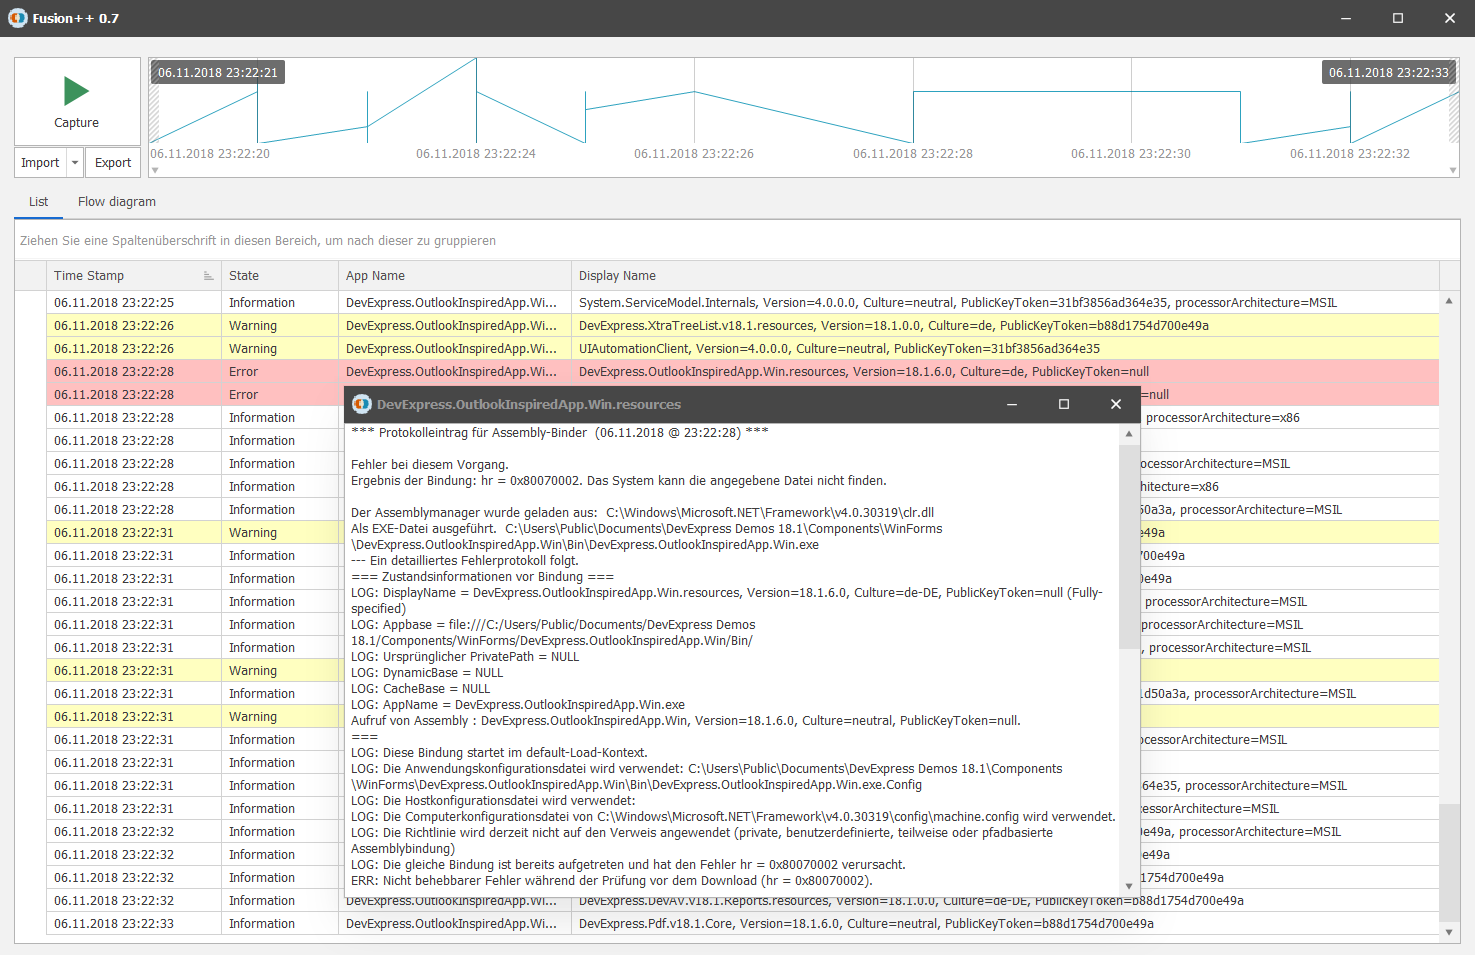
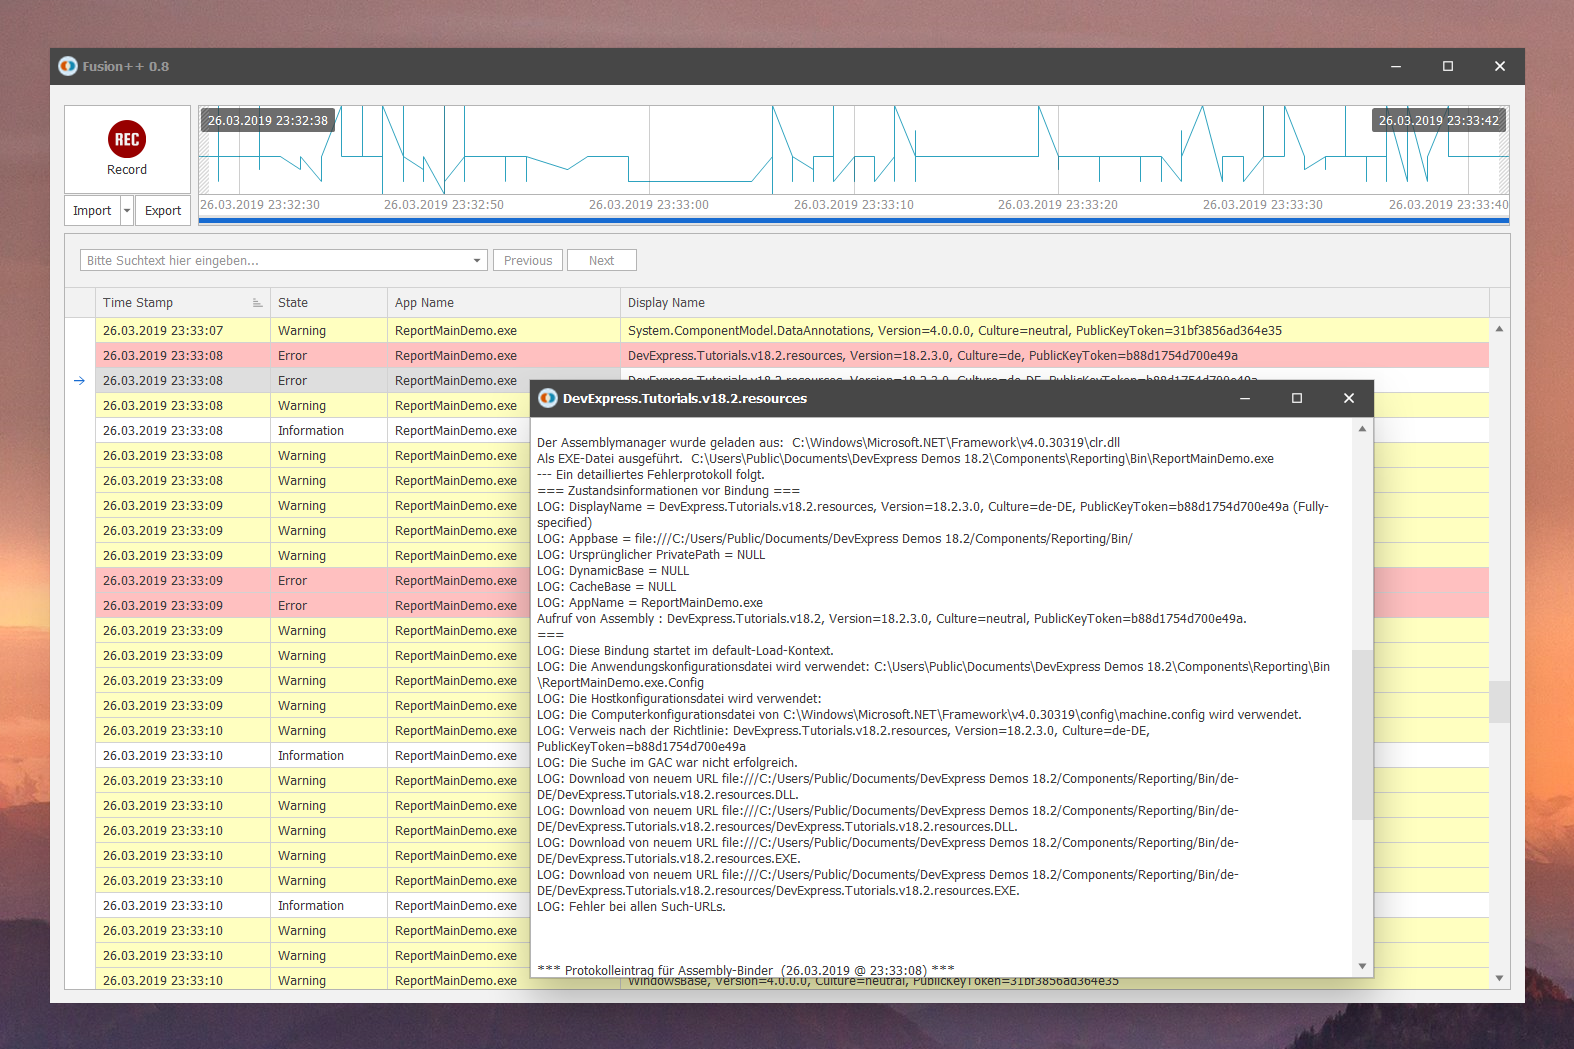
Make the main grid searchable

diff --git a/Fusion++/MainForm.Designer.cs b/Fusion++/MainForm.Designer.cs
@@ -138,8 +138,13 @@
             this.viewLog.FormatRules.Add(gridFormatRule2);
             this.viewLog.GridControl = this.gridLog;
             this.viewLog.Name = "viewLog";
+			this.viewLog.OptionsView.ShowGroupPanel = false;
             this.viewLog.OptionsBehavior.Editable = false;
-            this.viewLog.OptionsBehavior.ReadOnly = true;
+			this.viewLog.OptionsBehavior.AllowIncrementalSearch = true;
+			this.viewLog.OptionsFind.AllowFindPanel = true;
+			this.viewLog.OptionsFind.AlwaysVisible = true;
+			this.viewLog.OptionsFind.Behavior = DevExpress.XtraEditors.FindPanelBehavior.Search;
+			this.viewLog.OptionsBehavior.ReadOnly = true;
             this.viewLog.OptionsDetail.EnableMasterViewMode = false;
             this.viewLog.OptionsMenu.ShowConditionalFormattingItem = true;
             this.viewLog.SortInfo.AddRange(new DevExpress.XtraGrid.Columns.GridColumnSortInfo[] {
